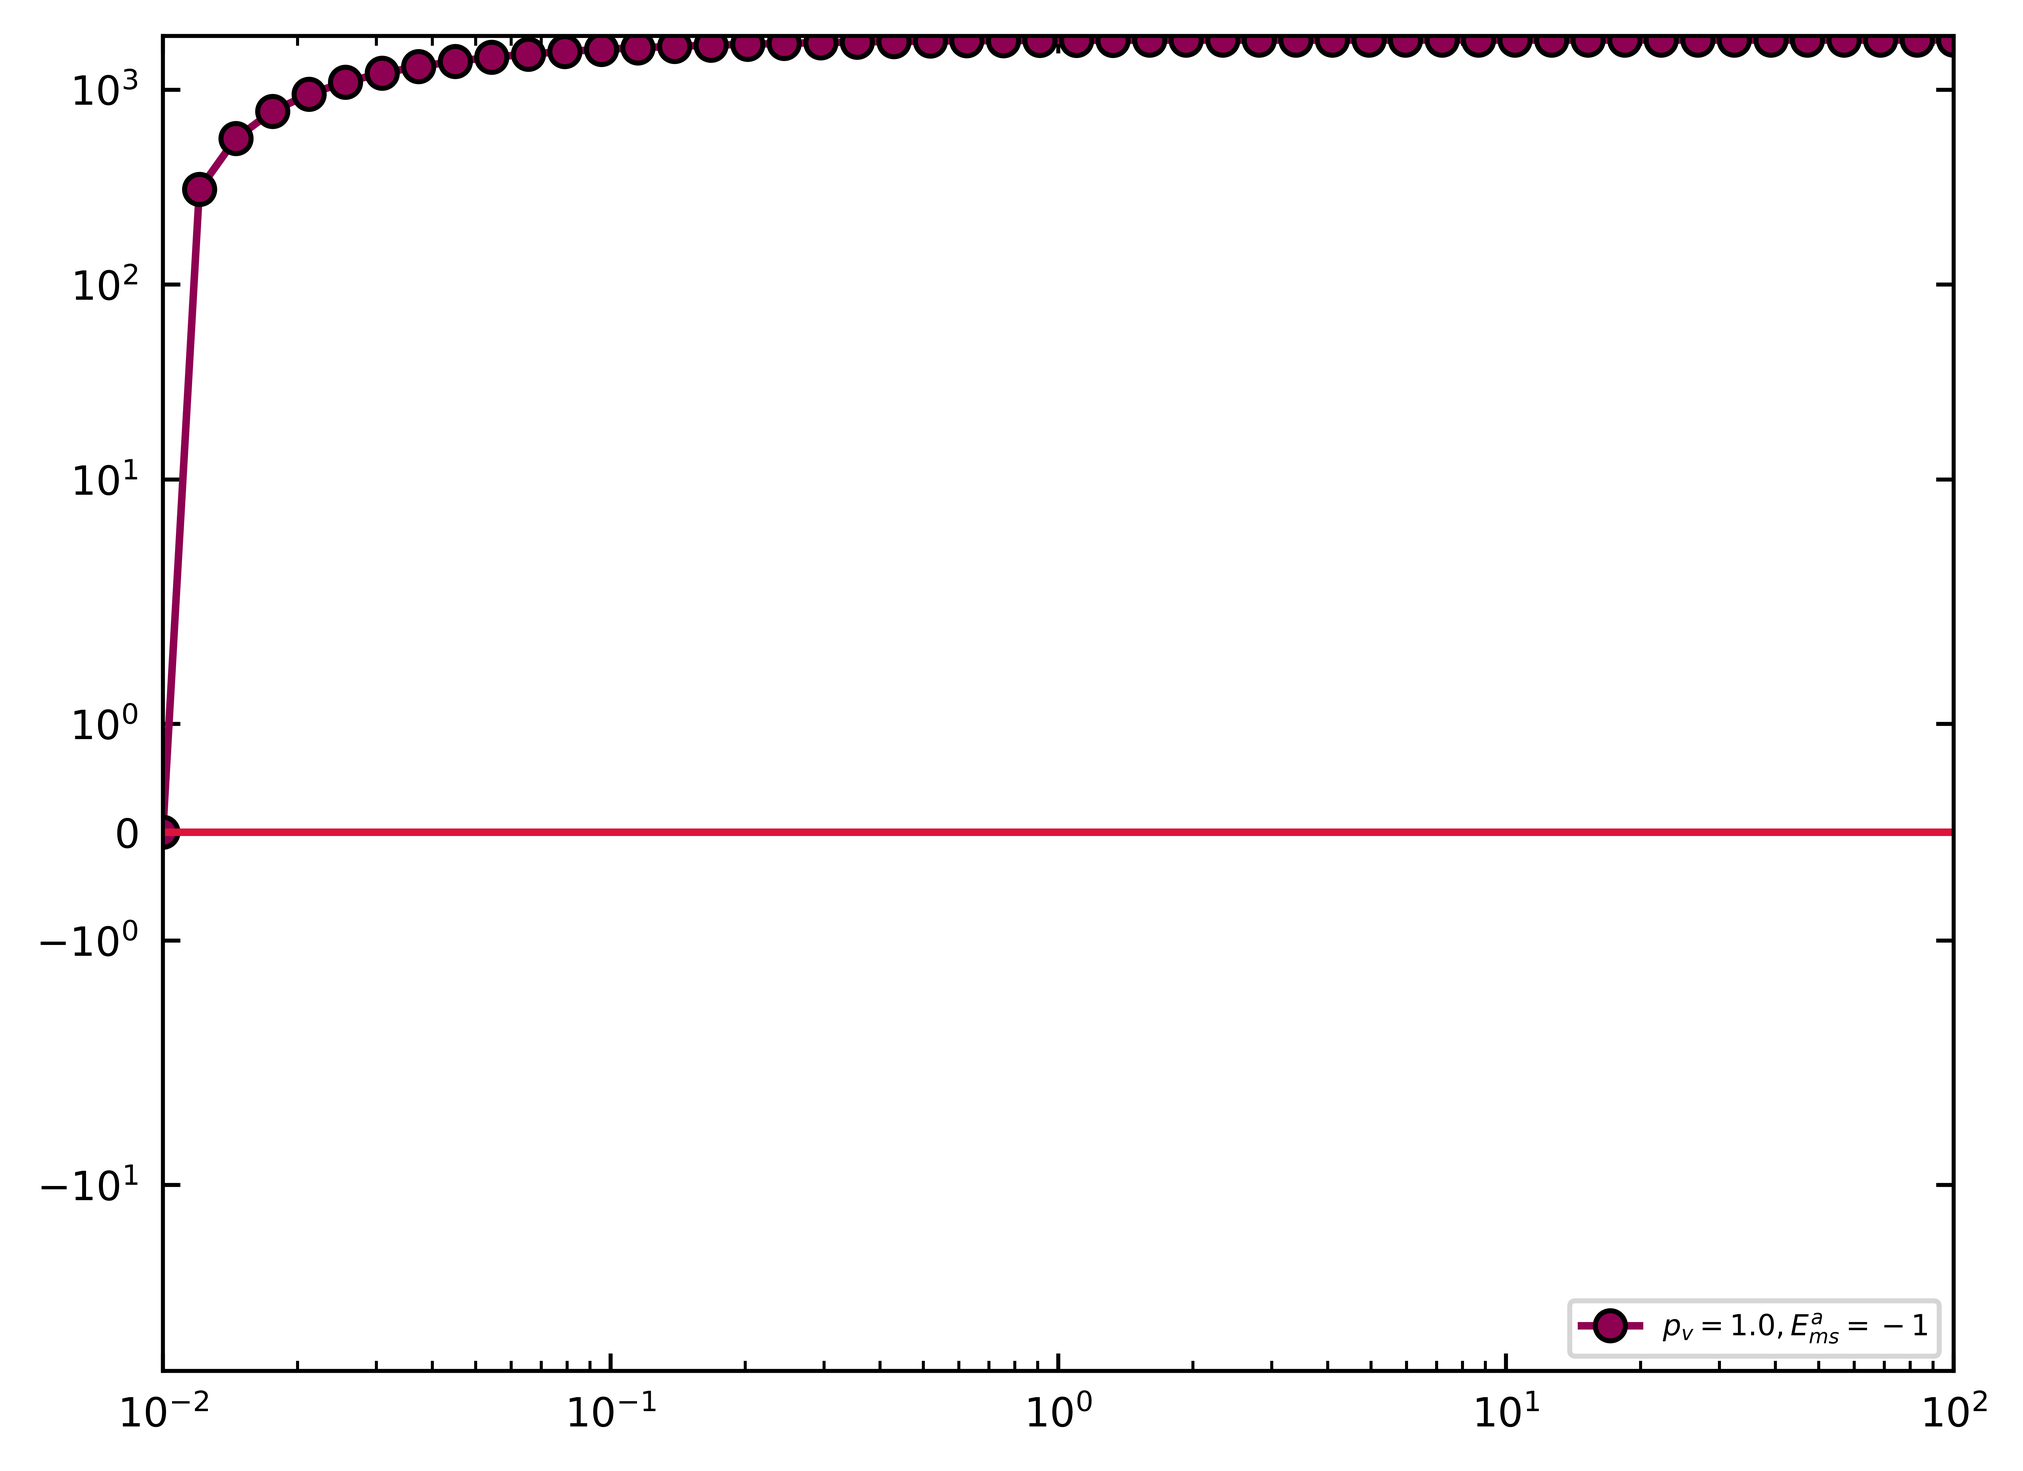
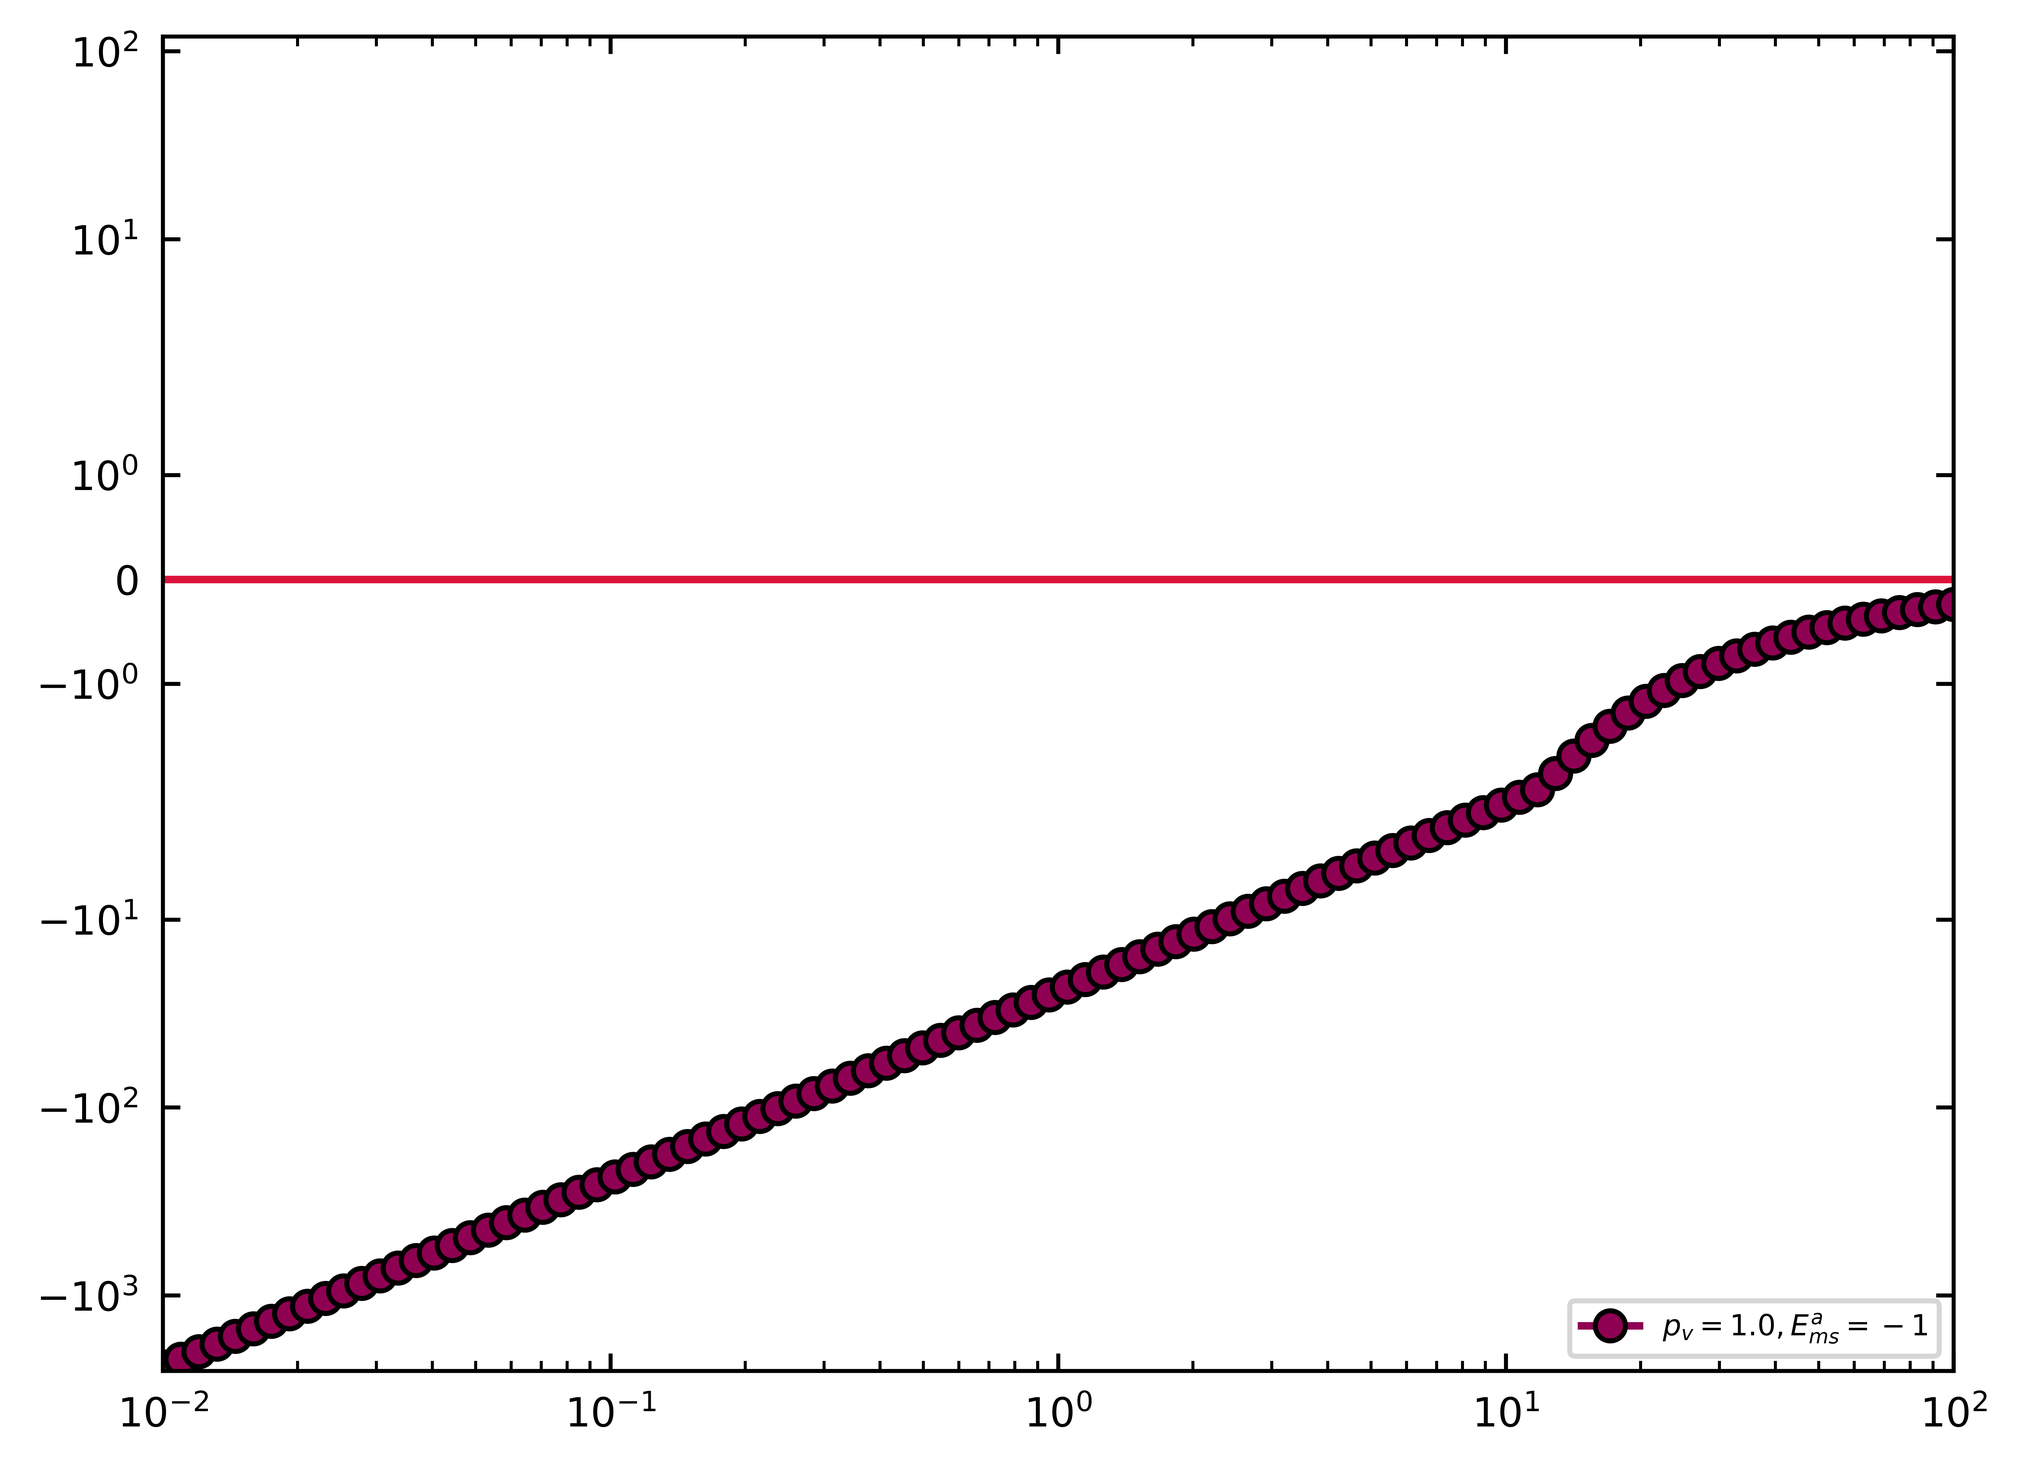
updated analysis scripts

diff --git a/py_analysis/tester/heatmaps-vectorized-v2-singular-multicolor.py b/py_analysis/tester/heatmaps-vectorized-v2-singular-multicolor.py
@@ -6,12 +6,10 @@ import matplotlib
 matplotlib.use('agg')
 import matplotlib.pyplot as plt
 import matplotlib.colors as colors
+from matplotlib.colors import Normalize
+from matplotlib.cm import ScalarMappable
 import time
 import copy 
-import sys
-
-sys.setrecursionlimit(5000)
-np.set_printoptions(threshold=sys.maxsize)
 
 
 def has_adjacent_zero(matrix):
@@ -23,41 +21,6 @@ def has_adjacent_zero(matrix):
     zero_adjacency = (shifted_up == 0) | (shifted_down == 0) | (shifted_left == 0) | (shifted_right == 0)
     nonzeros = matrix != 0
     return (zero_adjacency & nonzeros)*1
-
-
-def get_neighbor_indices(matrix, tup):
-    """
-    Returns indices of all neighbors in a 3x3 neighborhood that are 1s.
-    """
-    rows, cols = matrix.shape
-    rmin, rmax = max(0, tup[0]-1), min(rows, tup[0]+2)
-    cmin, cmax = max(0, tup[1]-1), min(cols, tup[1]+2)
-    idx = np.ix_(range(rmin, rmax), range(cmin, cmax))
-    neighbors = matrix[idx]
-    idx_neighbors = np.column_stack(np.where(neighbors == 1))
-    idx_neighbors[:, 0] += rmin
-    idx_neighbors[:, 1] += cmin
-    idx_neighbors = np.delete(idx_neighbors, np.argwhere(np.all(idx_neighbors == [tup[0], tup[1]], axis=1)), axis=0)
-    idx_neighbors = [ tuple(elem) for elem in idx_neighbors ]
-    return idx_neighbors
-
-def graph_traversal (trav, cleaned_mat, indices):
-
-    for ind in indices:
-        trav.add (ind)
-        cleaned_mat[ind] = 0
-    
-    for ind in indices:
-        l_of_indices = get_neighbor_indices (cleaned_mat, ind)
-        print (l_of_indices)
-        if len(l_of_indices) == 0:
-            return 
-        else:
-            graph_traversal (trav, cleaned_mat, l_of_indices)
-
-    return
-
-
 
 
 @nb.njit
@@ -93,8 +56,8 @@ def chi(emmn, emma, emsn, emsa, g, pv, T):
 
 if __name__=="__main__":
 
-    E_ms_a_list = [-1] # [-1, -0.875, -0.75, -0.625, -0.5, -0.375, -0.25, -0.125, 0]
-    E_ms_n_list = [0 ] # [-1, -0.875, -0.75, -0.625, -0.5, -0.375, -0.25, -0.125, 0]
+    E_ms_a_list = [0] # [-1, -0.875, -0.75, -0.625, -0.5, -0.375, -0.25, -0.125, 0]
+    E_ms_n_list = [0] # [-1, -0.875, -0.75, -0.625, -0.5, -0.375, -0.25, -0.125, 0]
 
     fig, axes = plt.subplots(nrows=len(E_ms_a_list), ncols=len(E_ms_n_list), figsize=(8,6), constrained_layout=True)
     start = time.time()
@@ -145,7 +108,6 @@ if __name__=="__main__":
         E_ms_a_expanded = E_ms_a [:, :, np.newaxis]
 
         for e_ms_n in E_ms_n_list:
-            branch = set () 
             print (f"ccount = {ccount}", flush=True)
             ccount += 1
 
@@ -163,47 +125,51 @@ if __name__=="__main__":
 
             print ("Processing the calculated chis...", flush=True)
             hold   = (np.max(Z_expanded, axis=-1)>0) & (Z_expanded[:,:,0]<0)
-            Z      = np.where (hold, np.max(Z_expanded, axis=-1) - (Z_expanded[:,:,0]), 0)
+            # Z_cg   = np.where (hold, np.max(Z_expanded, axis=-1), 0)
+            Z_cg   = np.where (hold, np.max(Z_expanded, axis=-1) - (Z_expanded[:,:,0]), 0)
+            
+            hold   = (np.max(Z_expanded, axis=-1)<0) & (Z_expanded[:,:,0]<0)
+            # Z_cc   = np.where (hold, np.max(Z_expanded, axis=-1), 0)    
+            Z_cc   = np.where (hold, np.max(Z_expanded, axis=-1) - (Z_expanded[:,:,0]), 0)    
 
-            Z_copy = has_adjacent_zero (Z)
+            hold   = (np.min(Z_expanded, axis=-1)>0) & (Z_expanded[:,:,0]>0)
+            # Z_gg   = np.where (hold, np.min(Z_expanded, axis=-1) , 0)    
+            Z_gg   = np.where (hold, (Z_expanded[:,:,0]) - np.min(Z_expanded, axis=-1) , 0)    
 
-            # we have the boundaries. 
-            # now let's segregate this into arms. 
-            # let's get rid of the mostly perpendicular arms. 
-            # for the first part, let's get indices of the boundary points 
-            # find a boundary point first from the left, and then burn everything in contact with it
+            hold   = (np.min(Z_expanded, axis=-1)<0) & (Z_expanded[:,:,0]>0)
+            # Z_gc   = np.where (hold, np.min(Z_expanded, axis=-1) , 0)    
+            Z_gc   = np.where (hold, (Z_expanded[:,:,0]) - np.min(Z_expanded, axis=-1) , 0)    
 
+            print ("Processed!", flush=True)
             
             print ("begin plotting...", flush=True)
             try:
-                # ax.pcolormesh ( E_mm_n, E_mm_a, Z, cmap='Reds', norm=colors.LogNorm(vmin=np.min(Z[Z>0]), vmax=np.max(Z[Z>0])), shading="auto" )
-                ax.pcolormesh ( E_mm_n, E_mm_a, Z_copy, cmap="Reds", norm=colors.Normalize(vmin=0, vmax=1), shading="auto" )
-                ax.pcolormesh ( E_mm_n[400:500,350:550], E_mm_a[400:500,350:550], Z_copy[400:500,350:550], cmap="Greys", norm=colors.Normalize(vmin=0, vmax=1), shading="auto" )
+                
+                # sm1 = ScalarMappable (cmap='Reds', norm=Normalize(vmin=0, vmax=1))
+                # sm1.set_array([])
+                # p1 = ax.pcolormesh ( E_mm_n, E_mm_a, Z_cg, cmap="Reds"    , shading="auto") # ,   norm=colors.LogNorm(vmin=np.min(Z_cg[Z_cg>0]), vmax=np.max(Z_cg[Z_cg>0])), shading="auto" )
+
+                sm2 = ScalarMappable (cmap='Greens', norm=Normalize(vmin=0, vmax=1))
+                sm2.set_array([])
+                p2 = ax.pcolormesh ( E_mm_n, E_mm_a, Z_cc, cmap="Greens"  , shading="auto") # ,   norm=colors.LogNorm(vmin=np.min(Z_cc[Z_cc>0]), vmax=np.max(Z_cc[Z_cc>0])), shading="auto" )
+                
+                sm3 = ScalarMappable (cmap='Blues', norm=Normalize(vmin=0, vmax=1))
+                sm3.set_array([])
+                p3 = ax.pcolormesh ( E_mm_n, E_mm_a, Z_gg, cmap="Blues"   , shading="auto") # ,   norm=colors.LogNorm(vmin=np.min(Z_gg[Z_gg>0]), vmax=np.max(Z_gg[Z_gg>0])), shading="auto" )
+
+                
+                sm4 = ScalarMappable (cmap='Purples', norm=Normalize(vmin=0, vmax=1))
+                sm4.set_array([])
+                p4 = ax.pcolormesh ( E_mm_n, E_mm_a, Z_gc, cmap="Purples" , shading="auto") # ,   norm=colors.LogNorm(vmin=np.min(Z_gc[Z_gc>0]), vmax=np.max(Z_gc[Z_gc>0])), shading="auto" )
+
             except ValueError:
                 # ax.pcolormesh ( E_mm_n, E_mm_a, Z, cmap='Reds', vmin=0, vmax=1 )   
                 pass
 
-            indices_of_ones = np.argwhere (Z_copy[400:500, 350:550])
-            # print (indices_of_ones)
-            x_vals = [ E_mm_n[tuple(elem)] for elem in indices_of_ones ]
-            y_vals = [ E_mm_a[tuple(elem)] for elem in indices_of_ones ]
-            # print(x_vals)
-            # print(y_vals)
-
-            slope, intercept = np.polyfit (x_vals, y_vals, 1)
-            corr_matrix = np.corrcoef(x_vals, y_vals)
-            r2 = corr_matrix[0,1]**2
-
-            print (f"Slope: {slope}")
-            print (f"Intercept: {intercept}")
-            print (f"R-squared: {r2}")
-
-            
-
             del E_ms_n         
             del E_ms_n_expanded
             del Z_expanded     
-            del Z              
+            # del Z              
             del hold
             # del mask           
 
@@ -219,7 +185,7 @@ if __name__=="__main__":
         del E_ms_a
         del E_ms_a_expanded
 
-    fig.savefig ("fast-singular-plots.png", dpi=1200, bbox_inches="tight")
+    fig.savefig ("fast-singular-plots-multicolor.png", dpi=1200, bbox_inches="tight")
 
     stop = time.time()
     print(f"Time required by this computation is {stop-start} seconds.")

diff --git a/py_analysis/tester/heatmaps-vectorized-v2-medium-multicolor.py b/py_analysis/tester/heatmaps-vectorized-v2-medium-multicolor.py
@@ -1,0 +1,168 @@
+#!~/.conda/envs/data_analysis/bin/python
+
+import numpy as np
+import numba as nb
+import matplotlib
+matplotlib.use('agg')
+import matplotlib.pyplot as plt
+import matplotlib.colors as colors
+import time
+import numexpr as ne
+
+
+@nb.njit # (parallel=True)
+def zmm(emmn, emma, g, T):
+    return (1-g)*np.exp(-emmn/T) + g * np.exp(-emma/T)
+    # return ne.evaluate("(1-g) * exp(-emmn/T) + g * exp(-emma/T)")
+
+@nb.njit # (parallel=True)
+def zms(emsn, emsa, g, T):
+    return (1-g)*np.exp(-emsn/T) + g * np.exp(-emsa/T)
+    # return ne.evaluate("(1-g) * exp(-emsn/T) + g * exp(-emsa/T)")
+
+@nb.njit # (parallel=True)
+def fmma(emmn, emma, g, T):
+    z = zmm(emmn, emma, g, T)
+    return g*np.exp(-emma/T) / z
+    # return ne.evaluate("g * exp(-emma/T) / z")
+
+@nb.njit # (parallel=True)
+def fmsa(emsn, emsa, g, T):
+    z = zms(emsn, emsa, g, T)
+    return g*np.exp(-emsa/T) / z
+    # return ne.evaluate("g * exp(-emsa/T) / z")
+
+@nb.njit # (parallel=True)
+def chi(emmn, emma, emsn, emsa, g, pv, T):
+    fmsa_val = fmsa(emsn, emsa, g, T)
+    fmma_val = fmma(emmn, emma, g, T)
+    ems = pv*(fmsa_val*emsa + (1-fmsa_val)*emsn) + (1-pv)*emsn
+    emm = 0.5* ( pv*(fmma_val*emma + (1-fmma_val)*emmn) + (1-pv)*emmn ) 
+    return 24/T * (ems-emm) # ((pv*(fmsa_val*emsa + (1-fmsa_val)*emsn) + (1-pv)*emsn) - 0.5*(pv*(fmma_val*emma + (1-fmma_val)*emmn) + (1-pv)*emmn))
+
+
+if __name__=="__main__":
+
+    E_ms_a_list = [-1, -0.5, 0] # [-1, -0.875, -0.75, -0.625, -0.5, -0.375, -0.25, -0.125, 0]
+    E_ms_n_list = [-1, -0.5, 0] # [-1, -0.875, -0.75, -0.625, -0.5, -0.375, -0.25, -0.125, 0]
+
+    fig, axes = plt.subplots(nrows=len(E_ms_a_list), ncols=len(E_ms_n_list), figsize=(8,6), constrained_layout=True)
+    start = time.time()
+
+    # define density of time points and range of plots
+    linrange = 1000
+    plot_lim = 5/2
+
+    # define energies to plot things over 
+    E_mm_a, E_mm_n = np.meshgrid (np.linspace(-plot_lim, plot_lim, linrange), np.linspace (-plot_lim, plot_lim, linrange))
+
+    # get temperatures
+    T  = np.logspace (-2, 2, 50)
+    T_broadcast = np.broadcast_to (T, (E_mm_a.shape[0], E_mm_a.shape[1], len(T)))
+
+    # get the other data structures
+    g = 0.25
+    G = g * np.ones (E_mm_a.shape)
+
+    pv = 1.0
+    PV = pv * np.ones (E_mm_a.shape)
+
+    E_mm_a_expanded = E_mm_a[:, :, np.newaxis] 
+    E_mm_n_expanded = E_mm_n[:, :, np.newaxis] 
+
+    G_expanded      = G [:, :, np.newaxis]
+    PV_expanded     = PV[:, :, np.newaxis]
+
+
+    rcount = -1
+    for e_ms_a in E_ms_a_list:
+
+        rcount +=  1
+        print (f"rcount = {rcount}", flush=True)
+        ccount  = -1
+        E_ms_a = e_ms_a * np.ones (E_mm_a.shape)
+        E_ms_a_expanded = E_ms_a [:, :, np.newaxis]
+
+        for e_ms_n in E_ms_n_list:
+            print (f"ccount = {ccount}", flush=True)
+            ccount += 1
+
+            ax = axes[rcount][ccount]
+            ax.tick_params(direction='in', bottom=True, top=True, left=True, right=True, which='both', labelsize=3, pad=2)
+            ax.tick_params(axis='x', labelsize=3, width=2)
+            ax.tick_params(axis='y', labelsize=3, width=2)
+
+
+            E_ms_n = e_ms_n * np.ones (E_mm_a.shape)
+            E_ms_n_expanded = E_ms_n[:, :, np.newaxis]
+
+            print ("Calculating chis...", flush=True)
+            Z_expanded = chi (E_mm_n_expanded, E_mm_a_expanded, E_ms_n_expanded, E_ms_a_expanded, G_expanded, PV_expanded, T_broadcast)
+            print ("Calculated!", flush=True)
+
+            print ("Processing the calculated chis...", flush=True)
+            hold      = (np.max(Z_expanded, axis=-1)>0) & (Z_expanded[:,:,0]<0)
+            Z_cg      = np.where (hold, np.max(Z_expanded, axis=-1) - (Z_expanded[:,:,0]), 0)
+
+            hold   = (np.max(Z_expanded, axis=-1)<0) & (Z_expanded[:,:,0]<0)
+            # Z_cc   = np.where (hold, np.max(Z_expanded, axis=-1), 0)    
+            Z_cc   = np.where (hold, np.max(Z_expanded, axis=-1) - (Z_expanded[:,:,0]), 0)    
+
+            hold   = (np.min(Z_expanded, axis=-1)>0) & (Z_expanded[:,:,0]>0)
+            # Z_gg   = np.where (hold, np.min(Z_expanded, axis=-1) , 0)    
+            Z_gg   = np.where (hold, (Z_expanded[:,:,0]) - np.min(Z_expanded, axis=-1) , 0)    
+
+            hold   = (np.min(Z_expanded, axis=-1)<0) & (Z_expanded[:,:,0]>0)
+            # Z_gc   = np.where (hold, np.min(Z_expanded, axis=-1) , 0)    
+            Z_gc   = np.where (hold, (Z_expanded[:,:,0]) - np.min(Z_expanded, axis=-1) , 0)             
+
+            print ("Processed!", flush=True)
+
+            print ("begin plotting...", flush=True)
+            try:
+                
+                if rcount != ccount:
+                    ax.pcolormesh ( E_mm_n, E_mm_a, Z_cg, cmap="Reds"    ,   norm=colors.LogNorm(vmin=np.min(Z_cg[Z_cg>0]), vmax=np.max(Z_cg[Z_cg>0])), shading="auto" )
+                    ax.pcolormesh ( E_mm_n, E_mm_a, Z_cc, cmap="Greens"  ,   norm=colors.LogNorm(vmin=np.min(Z_cc[Z_cc>0]), vmax=np.max(Z_cc[Z_cc>0])), shading="auto" )
+                    ax.pcolormesh ( E_mm_n, E_mm_a, Z_gg, cmap="Blues"   ,   norm=colors.LogNorm(vmin=np.min(Z_gg[Z_gg>0]), vmax=np.max(Z_gg[Z_gg>0])), shading="auto" )
+                    ax.pcolormesh ( E_mm_n, E_mm_a, Z_gc, cmap="Purples" ,   norm=colors.LogNorm(vmin=np.min(Z_gc[Z_gc>0]), vmax=np.max(Z_gc[Z_gc>0])), shading="auto" )
+
+                else:
+                    # ax.pcolormesh ( E_mm_n, E_mm_a, Z_cg, cmap="Reds"    ,   norm=colors.LogNorm(vmin=np.min(Z_cg[Z_cg>0]), vmax=np.max(Z_cg[Z_cg>0])), shading="auto" )
+                    ax.pcolormesh ( E_mm_n, E_mm_a, Z_cc, cmap="Greens"  ,   norm=colors.Normalize(vmin=np.min(Z_cc[Z_cc>0]), vmax=np.max(Z_cc[Z_cc>0])), shading="auto" )
+                    ax.pcolormesh ( E_mm_n, E_mm_a, Z_gg, cmap="Blues"   ,   norm=colors.Normalize(vmin=np.min(Z_gg[Z_gg>0]), vmax=np.max(Z_gg[Z_gg>0])), shading="auto" )
+                    ax.pcolormesh ( E_mm_n, E_mm_a, Z_gc, cmap="Purples" ,   norm=colors.Normalize(vmin=np.min(Z_gc[Z_gc>0]), vmax=np.max(Z_gc[Z_gc>0])), shading="auto" )
+            
+            except ValueError:
+                pass
+                # ax.pcolormesh (E_mm_n, E_mm_a, Z, cmap='Reds', vmin=0, vmax=1)   
+
+            del E_ms_n
+            del E_ms_n_expanded
+            del Z_expanded
+            del Z_cg
+            del Z_cc
+            del Z_gg
+            del Z_gc
+            del hold
+
+            ax.set_xlim (-plot_lim, plot_lim)
+            ax.set_ylim (-plot_lim, plot_lim)
+            ax.set_yticks([-plot_lim,0,plot_lim])
+            ax.set_xticks([-plot_lim,0,plot_lim])
+            ax.set_xlabel ("$\\epsilon _{mm} ^{n}$", fontsize=3, weight='bold', labelpad=2)
+            ax.set_ylabel ("$\\epsilon _{mm} ^{a}$", fontsize=3, labelpad=2)
+            ax.set_xticklabels (ax.get_xticks(), weight='bold')
+            ax.set_yticklabels (ax.get_yticks(), weight='bold')
+            ax.minorticks_on()
+            print ("plotted!", flush=True)
+
+        del E_ms_a
+        del E_ms_a_expanded
+
+    fig.savefig ("fast-plots-multicolor-medium-v2.png", dpi=1200, bbox_inches="tight")
+
+    stop = time.time()
+    print(f"Time required by this computation is {stop-start} seconds.")
+
+

diff --git a/py_analysis/tester/chi-dw.py b/py_analysis/tester/chi-dw.py
@@ -63,11 +63,11 @@ if __name__=="__main__":
     norm = matplotlib.colors.TwoSlopeNorm (vmin=0, vcenter=0.5, vmax=1.0)
 
     ems_list = [-1]
-    E_mm_a = -0.5055055055055055
-    E_mm_n = -0.5035035035035035
-    E_ms_n =  -0;
+    E_mm_a = 0
+    E_mm_n = 0
+    E_ms_n = -1;
 
-    T_range = np.logspace (-2, 2, 50)
+    T_range = np.logspace (-2, 2, 100)
 
     it = 0
     for pv in [1.0]:
@@ -85,10 +85,11 @@ if __name__=="__main__":
             c = chi(E_mm_a, E_mm_n, E_ms_a, E_ms_n, pv, T_range)
             print (f"c[0] = {c[0]}")
             if c[0] > 0:
-                print ("Expanded at cold temperature.")
-            print ("max chi = {}".format(np.max(c)-c[0]))
-            ax.plot (T_range, chi(E_mm_a, E_mm_n, E_ms_a, E_ms_n, pv, T_range) - chi(E_mm_a, E_mm_n, E_ms_a, E_ms_n, pv, 0.01), marker='o', markeredgecolor='k', c=rgba_color, label=f"$p_v = {pv}, E_{{ms}}^{{a}} = {E_ms_a}$")
-            
+                print ("Collapsed at cold temperature.")
+                print ("max chi = {}".format(np.max(c)-c[0]))
+                ax.plot (T_range, chi(E_mm_a, E_mm_n, E_ms_a, E_ms_n, pv, T_range) - chi(E_mm_a, E_mm_n, E_ms_a, E_ms_n, pv, 0.01), marker='o', markeredgecolor='k', c=rgba_color, label=f"$p_v = {pv}, E_{{ms}}^{{a}} = {E_ms_a}$")
+            else:
+                ax.plot (T_range, chi(E_mm_a, E_mm_n, E_ms_a, E_ms_n, pv, T_range), marker='o', markeredgecolor='k', c=rgba_color, label=f"$p_v = {pv}, E_{{ms}}^{{a}} = {E_ms_a}$")
 
         ax.set_xscale ("log")
         ax.set_yscale ("symlog")
